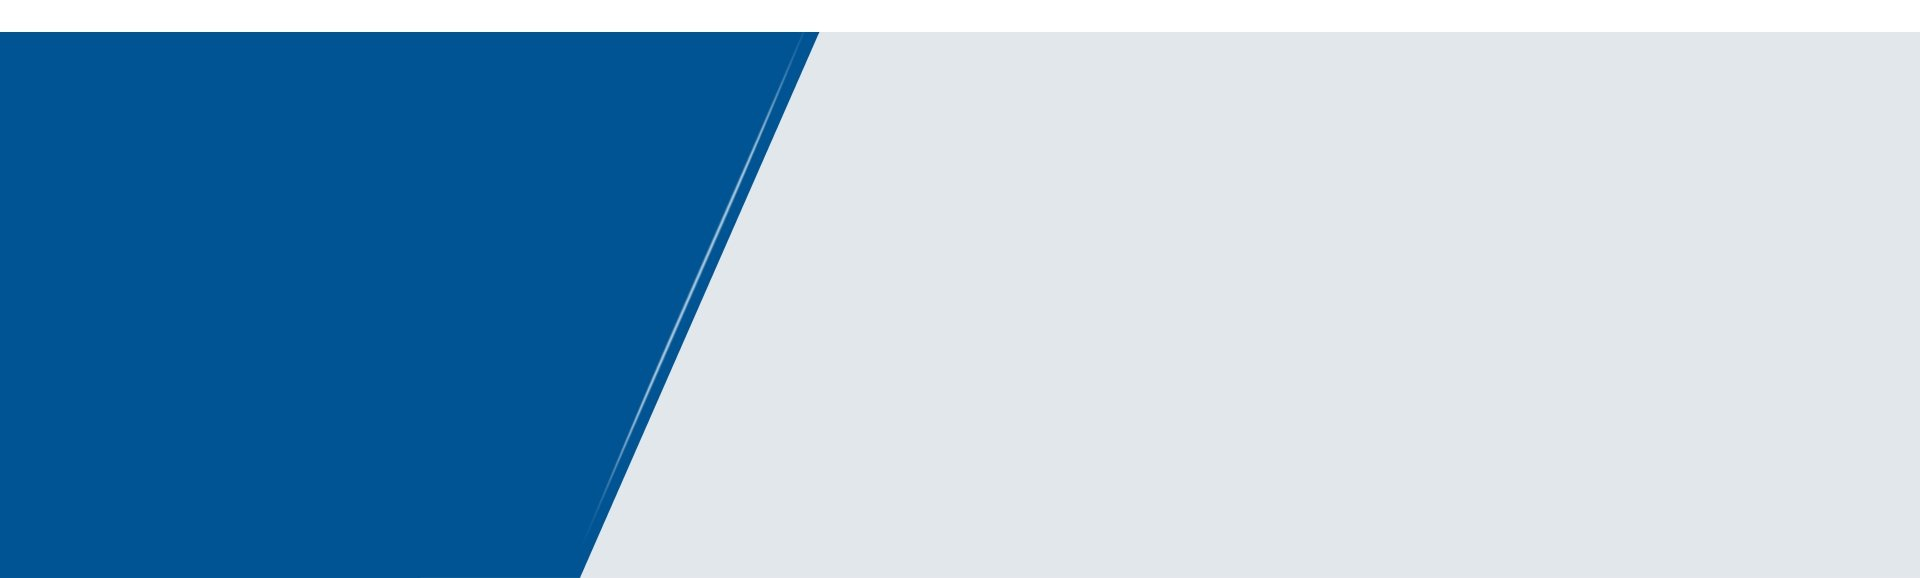
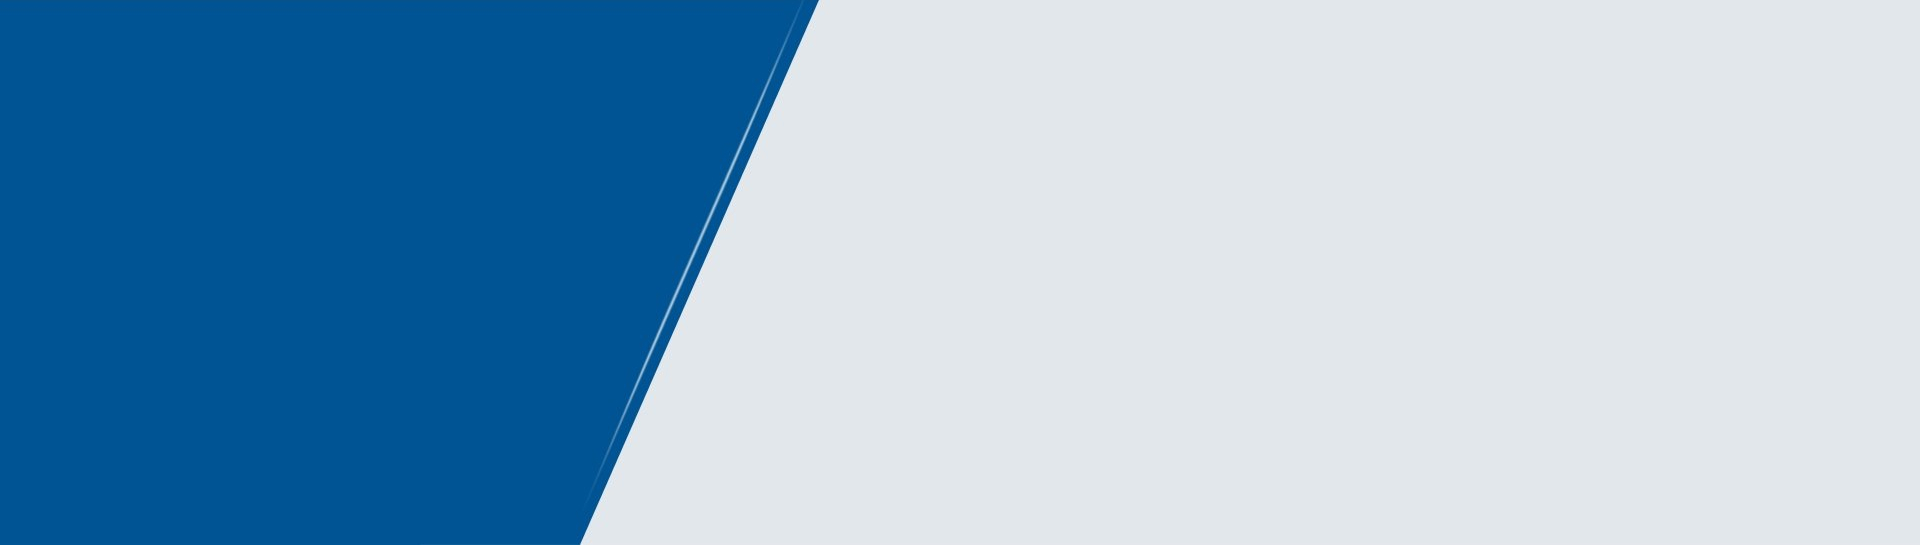
правки

Changed region(s): [[0.0, 0.0, 1.0, 0.8422]]

diff --git a/app/css/style.css b/app/css/style.css
@@ -7596,7 +7596,7 @@ picture {
   z-index: 10;
   width: 100%;
   position: absolute;
-  top: 150px;
+  top: 180px;
   background-color: #e2e7ec;
   -webkit-transition: 450ms ease;
   -o-transition: 450ms ease;
